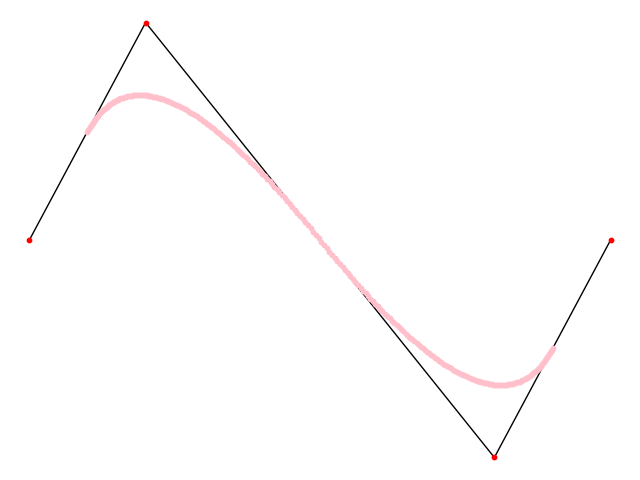
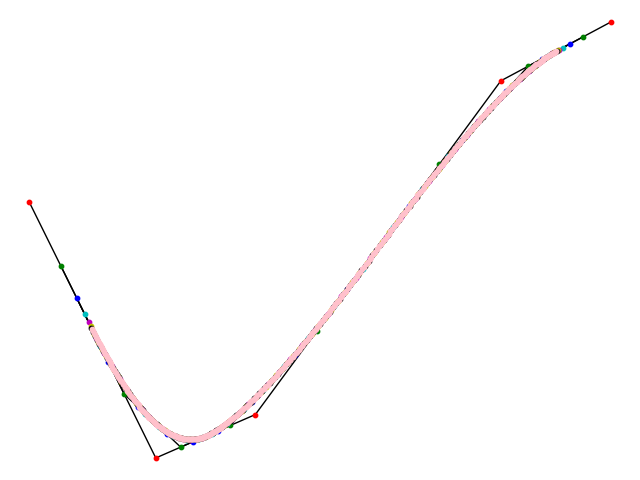
add new file

diff --git a/B2graph.py b/B2graph.py
@@ -11,7 +11,7 @@ import numpy as np
 
 LOOP = 7
 NODENUM = 5
-colorlist = ["r", "g", "b", "c", "m", "y", "k", "pink"]
+colorlist = ["r", "g", "b", "c", "m", "y", "k", "pink"] #色
 
 def func(vertex):
     v_list = []
@@ -40,12 +40,11 @@ def graphme(v_list):
 
 
 def main():
-    V = [(0,0),(1,1),(4,-1),(5,0)]
+    V = []
+    #V = [(0,0),(1,1),(4,-1),(5,0)]
 
-    #for i in range(NODENUM):
-    #    V.append((random.random()*20, random.random()*20))
-
-
+    for i in range(NODENUM):
+        V.append((random.random()*20, random.random()*20))
 
     Gs = []
     g0, p0 = graphme(V)
@@ -57,7 +56,7 @@ def main():
         Gs.append((g,p))
         V = p
 
-    for i in [0,7]:
+    for i in range(len(Gs)):
         nx.draw(Gs[i][0],Gs[i][1], node_color=colorlist[i], node_size=10)
 
     # 保存
